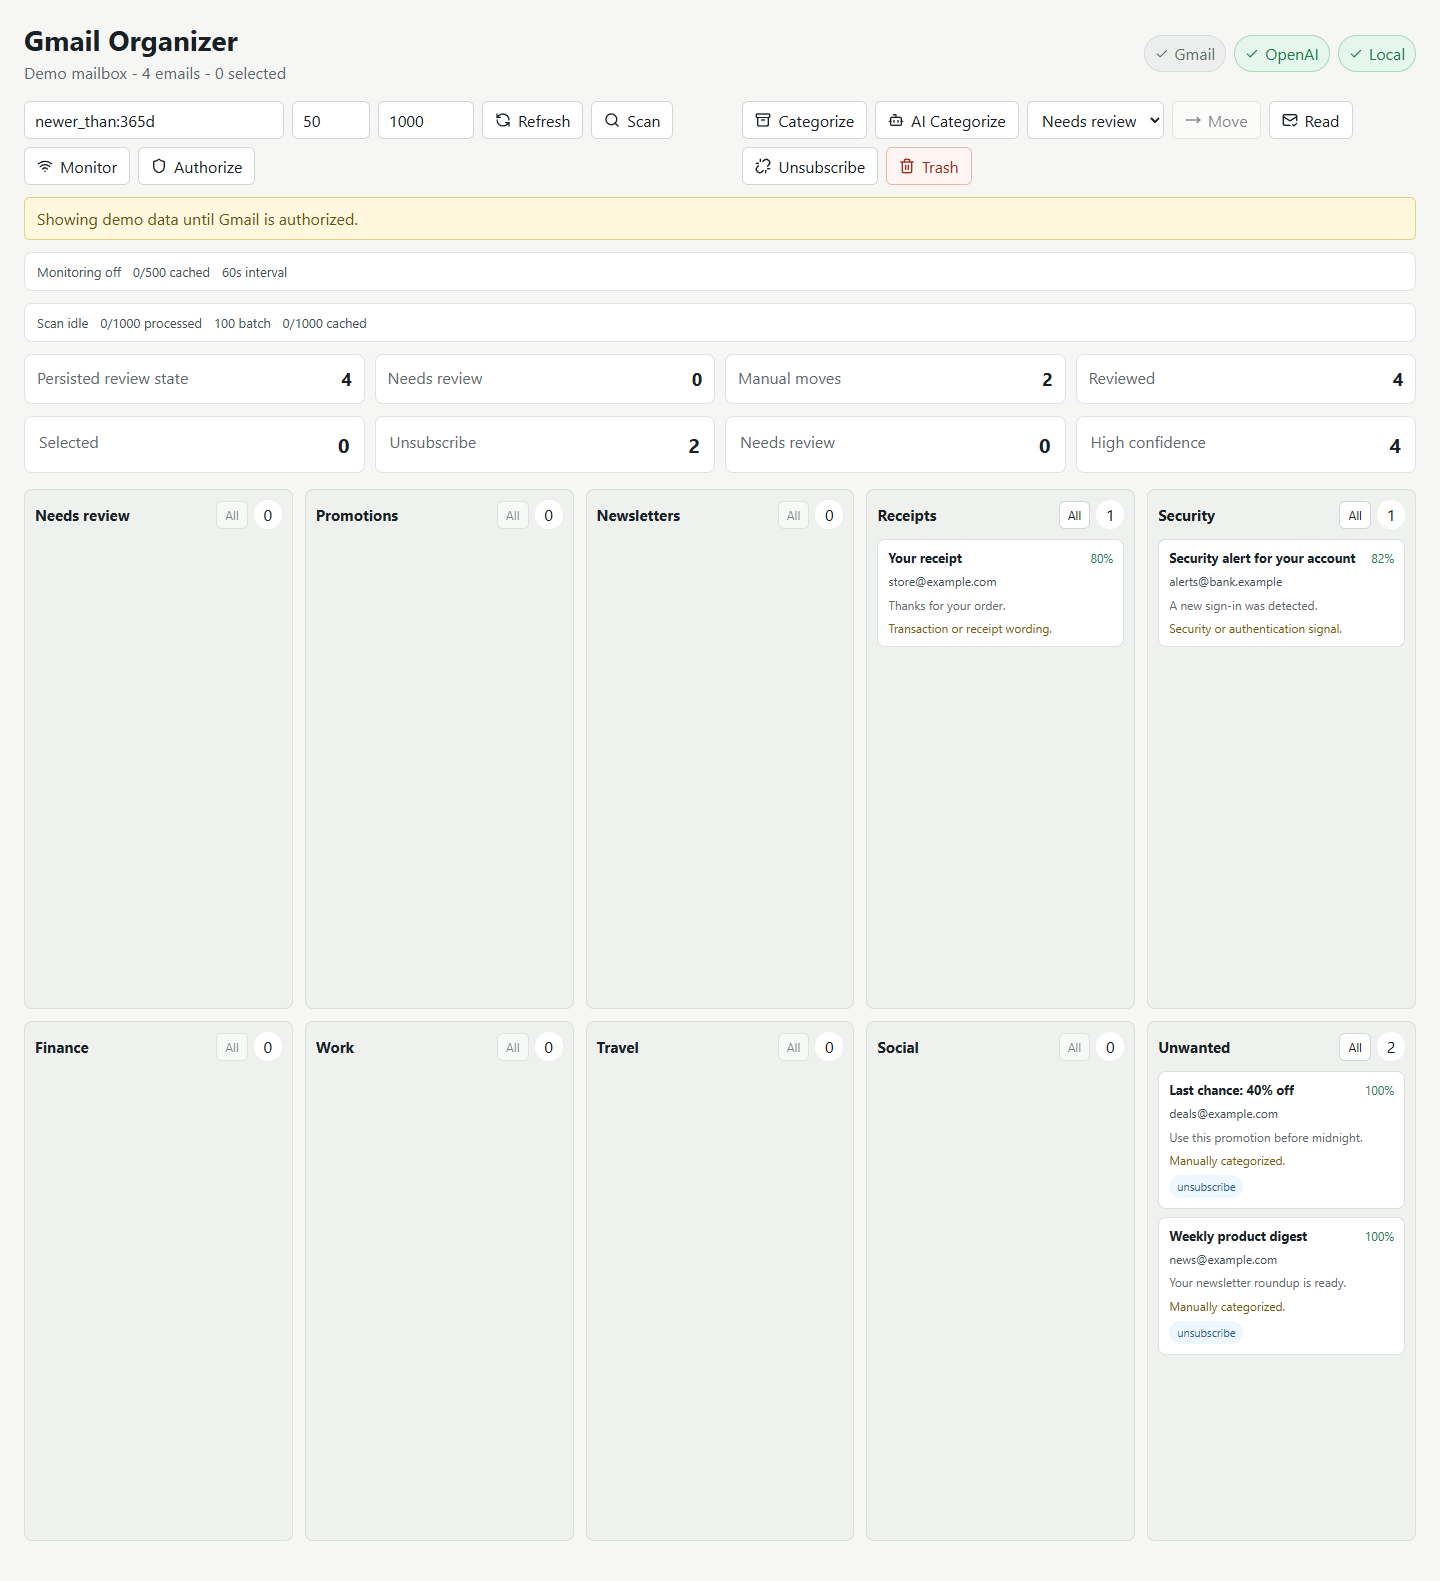
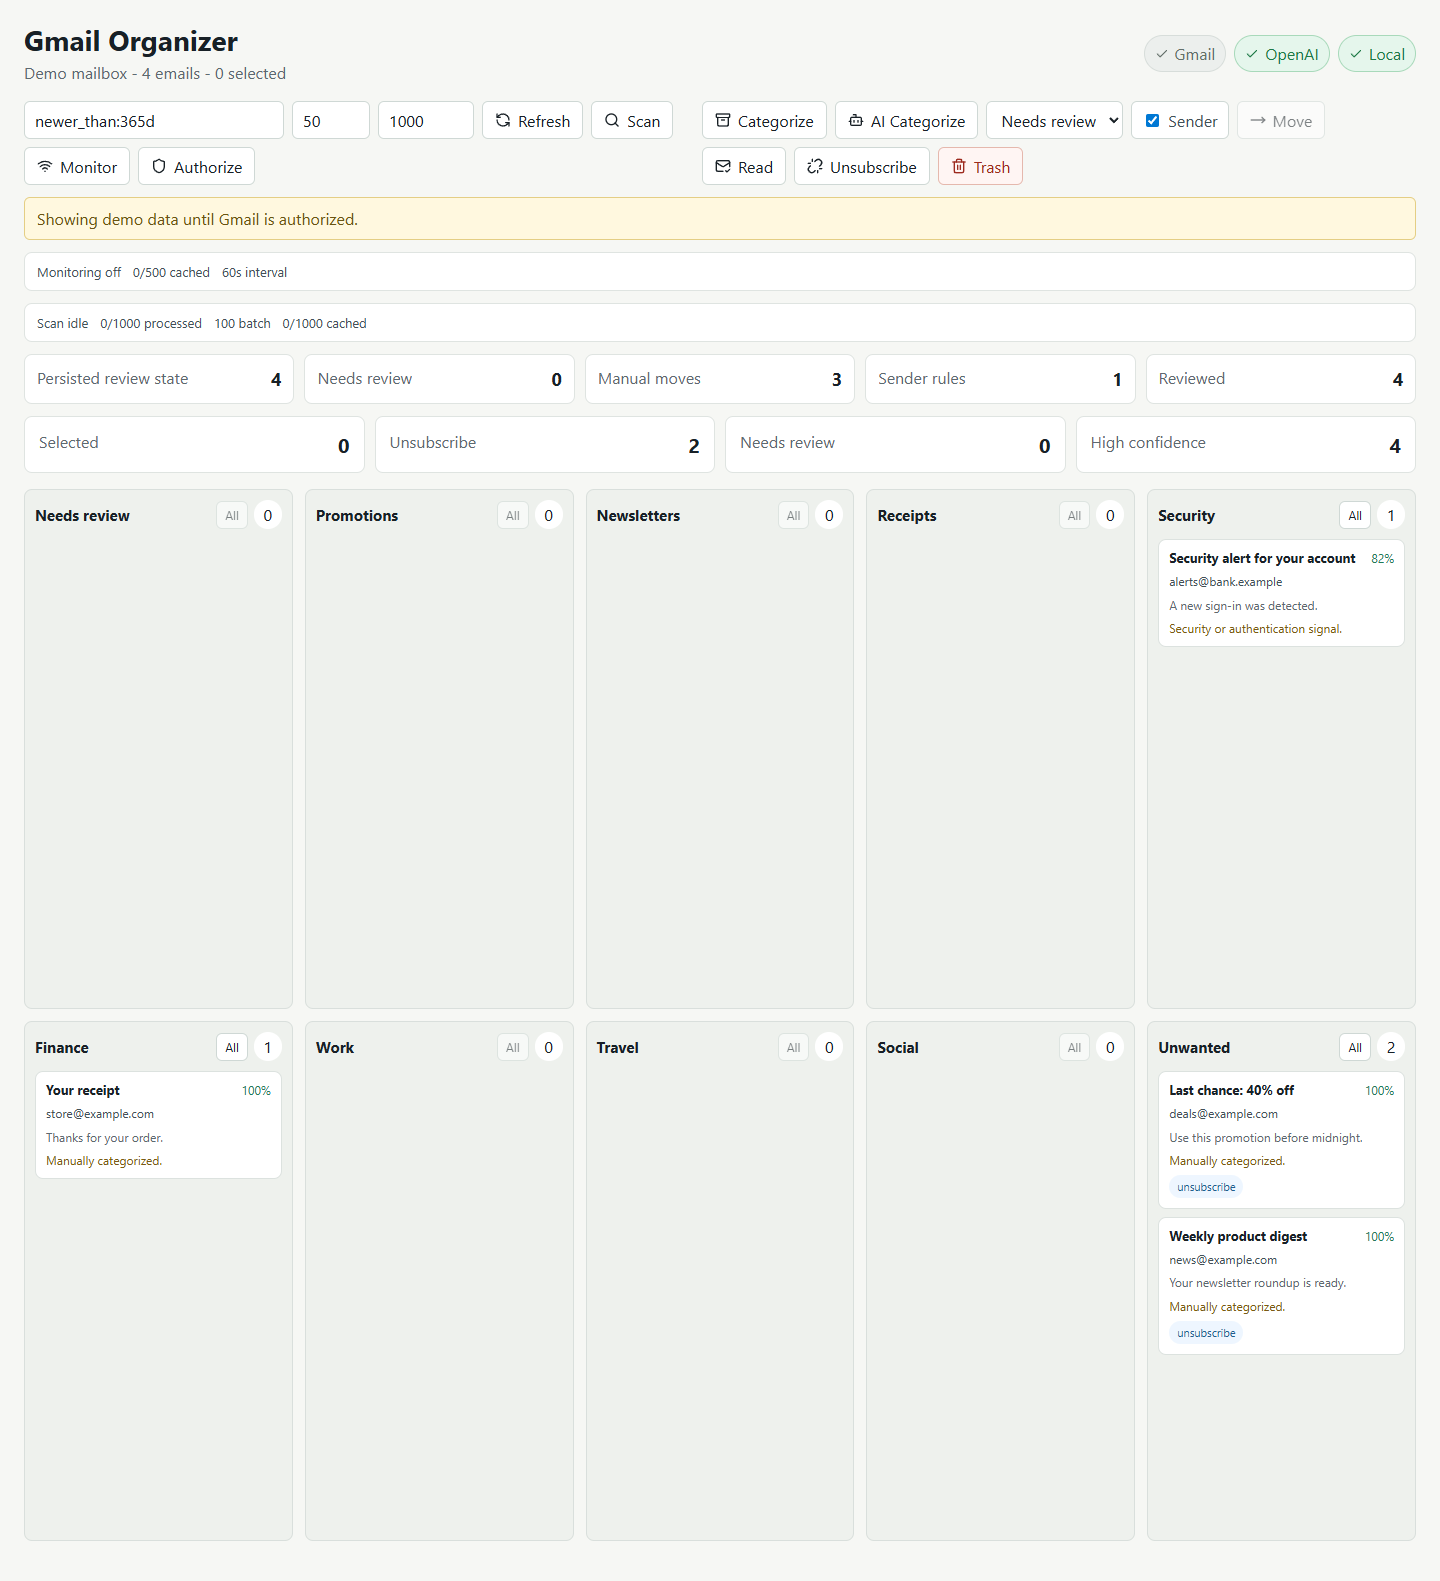
Add sender category rules

diff --git a/web/src/styles.css b/web/src/styles.css
@@ -103,6 +103,23 @@ select {
   width: 96px;
 }
 
+.inline-toggle {
+  align-items: center;
+  background: #ffffff;
+  border: 1px solid #cfd8d5;
+  border-radius: 6px;
+  color: #435057;
+  display: inline-flex;
+  gap: 6px;
+  height: 38px;
+  padding: 0 10px;
+}
+
+.inline-toggle input {
+  height: auto;
+  padding: 0;
+}
+
 button {
   align-items: center;
   background: #ffffff;
@@ -203,7 +220,7 @@ button:disabled {
 .coverage-panel {
   display: grid;
   gap: 10px;
-  grid-template-columns: repeat(4, minmax(0, 1fr));
+  grid-template-columns: repeat(5, minmax(0, 1fr));
   margin-bottom: 12px;
 }
 

diff --git a/web/src/main.tsx b/web/src/main.tsx
@@ -26,6 +26,7 @@ function App() {
   const [max, setMax] = useState(50);
   const [scanLimit, setScanLimit] = useState(1000);
   const [targetCategory, setTargetCategory] = useState<Category>("needs_review");
+  const [applySenderRule, setApplySenderRule] = useState(true);
   const [source, setSource] = useState("demo");
   const [busy, setBusy] = useState(false);
   const [notice, setNotice] = useState("");
@@ -200,11 +201,11 @@ function App() {
     }
     setBusy(true);
     try {
-      const result = await updateCategories(ids, targetCategory);
+      const result = await updateCategories(ids, targetCategory, applySenderRule);
       setEmails(result.emails);
       setSelected(new Set());
       await refreshReviewStats();
-      setNotice(`${ids.length} email(s) moved to ${categoryLabel(targetCategory)}.`);
+      setNotice(`${ids.length} email(s) moved to ${categoryLabel(targetCategory)}.${applySenderRule ? " Sender rule saved." : ""}`);
     } catch (error) {
       setNotice(error instanceof Error ? error.message : "Category update failed.");
     } finally {
@@ -259,6 +260,10 @@ function App() {
           <select value={targetCategory} onChange={(event) => setTargetCategory(event.target.value as Category)} aria-label="Target category">
             {categories.map((category) => <option key={category.id} value={category.id}>{category.label}</option>)}
           </select>
+          <label className="inline-toggle">
+            <input type="checkbox" checked={applySenderRule} onChange={(event) => setApplySenderRule(event.target.checked)} />
+            Sender
+          </label>
           <button onClick={moveSelected} disabled={busy || selected.size === 0}><MoveRight size={16} />Move</button>
           <button onClick={() => bulk("mark_read")} disabled={busy}><MailCheck size={16} />Read</button>
           <button onClick={() => bulk("unsubscribe")} disabled={busy}><Unlink size={16} />Unsubscribe</button>
@@ -302,6 +307,10 @@ function App() {
           <div>
             <span>Manual moves</span>
             <strong>{reviewStats.manual}</strong>
+          </div>
+          <div>
+            <span>Sender rules</span>
+            <strong>{reviewStats.senderRules}</strong>
           </div>
           <div>
             <span>Reviewed</span>

diff --git a/web/src/api.ts b/web/src/api.ts
@@ -29,10 +29,10 @@ export async function classifyEmails(emails: EmailSummary[], useAI: boolean) {
   });
 }
 
-export async function updateCategories(ids: string[], category: string) {
+export async function updateCategories(ids: string[], category: string, applySenderRule: boolean) {
   return request<{ emails: EmailSummary[] }>("/api/categories", {
     method: "POST",
-    body: JSON.stringify({ ids, category })
+    body: JSON.stringify({ ids, category, applySenderRule })
   });
 }
 

diff --git a/web/src/types.ts b/web/src/types.ts
@@ -73,6 +73,7 @@ export type ReviewStats = {
   total: number;
   manual: number;
   needsReview: number;
+  senderRules: number;
   byCategory: Partial<Record<Category, number>>;
   updatedAt?: string;
 };

diff --git a/internal/store/store.go b/internal/store/store.go
@@ -3,8 +3,10 @@ package store
 import (
 	"bufio"
 	"encoding/json"
+	"net/mail"
 	"os"
 	"path/filepath"
+	"strings"
 	"sync"
 	"time"
 
@@ -14,6 +16,7 @@ import (
 type ReviewStore struct {
 	statePath string
 	auditPath string
+	rulesPath string
 	mu        sync.Mutex
 }
 
@@ -36,8 +39,15 @@ type ReviewStats struct {
 	Total       int                     `json:"total"`
 	Manual      int                     `json:"manual"`
 	NeedsReview int                     `json:"needsReview"`
+	SenderRules int                     `json:"senderRules"`
 	ByCategory  map[domain.Category]int `json:"byCategory"`
 	UpdatedAt   *time.Time              `json:"updatedAt,omitempty"`
+}
+
+type SenderRule struct {
+	Sender    string          `json:"sender"`
+	Category  domain.Category `json:"category"`
+	UpdatedAt time.Time       `json:"updatedAt"`
 }
 
 func NewReviewStore(dataDir string) (*ReviewStore, error) {
@@ -47,6 +57,7 @@ func NewReviewStore(dataDir string) (*ReviewStore, error) {
 	return &ReviewStore{
 		statePath: filepath.Join(dataDir, "review_state.json"),
 		auditPath: filepath.Join(dataDir, "action_audit.jsonl"),
+		rulesPath: filepath.Join(dataDir, "sender_rules.json"),
 	}, nil
 }
 
@@ -61,6 +72,24 @@ func (s *ReviewStore) Apply(emails []domain.EmailSummary) []domain.EmailSummary 
 			email.Category = saved.Category
 			email.Confidence = saved.Confidence
 			email.Reason = saved.Reason
+		}
+		out = append(out, email)
+	}
+	return out
+}
+
+func (s *ReviewStore) ApplySenderRules(emails []domain.EmailSummary) []domain.EmailSummary {
+	rules, err := s.loadRules()
+	if err != nil || len(rules) == 0 {
+		return emails
+	}
+	out := make([]domain.EmailSummary, 0, len(emails))
+	for _, email := range emails {
+		sender := normalizeSender(email.From)
+		if rule, ok := rules[sender]; ok {
+			email.Category = rule.Category
+			email.Confidence = 1
+			email.Reason = "Sender rule."
 		}
 		out = append(out, email)
 	}
@@ -94,6 +123,32 @@ func (s *ReviewStore) SaveClassifications(emails []domain.EmailSummary) error {
 	return os.WriteFile(s.statePath, raw, 0o600)
 }
 
+func (s *ReviewStore) SaveSenderRules(emails []domain.EmailSummary, category domain.Category) error {
+	s.mu.Lock()
+	defer s.mu.Unlock()
+	rules, err := s.loadRulesLocked()
+	if err != nil {
+		rules = map[string]SenderRule{}
+	}
+	now := time.Now().UTC()
+	for _, email := range emails {
+		sender := normalizeSender(email.From)
+		if sender == "" {
+			continue
+		}
+		rules[sender] = SenderRule{
+			Sender:    sender,
+			Category:  category,
+			UpdatedAt: now,
+		}
+	}
+	raw, err := json.MarshalIndent(rules, "", "  ")
+	if err != nil {
+		return err
+	}
+	return os.WriteFile(s.rulesPath, raw, 0o600)
+}
+
 func (s *ReviewStore) RecordAction(action domain.BulkAction, ids []string, results []domain.ActionResult) error {
 	s.mu.Lock()
 	defer s.mu.Unlock()
@@ -115,13 +170,20 @@ func (s *ReviewStore) Stats() (ReviewStats, error) {
 	state, err := s.loadState()
 	if err != nil {
 		if os.IsNotExist(err) {
-			return ReviewStats{ByCategory: map[domain.Category]int{}}, nil
+			stats := ReviewStats{ByCategory: map[domain.Category]int{}}
+			if rules, rulesErr := s.loadRules(); rulesErr == nil {
+				stats.SenderRules = len(rules)
+			}
+			return stats, nil
 		}
 		return ReviewStats{}, err
 	}
 	stats := ReviewStats{
 		Total:      len(state),
 		ByCategory: map[domain.Category]int{},
+	}
+	if rules, err := s.loadRules(); err == nil {
+		stats.SenderRules = len(rules)
 	}
 	var latest time.Time
 	for _, item := range state {
@@ -189,4 +251,34 @@ func (s *ReviewStore) loadStateLocked() (map[string]StoredClassification, error)
 		return nil, err
 	}
 	return state, nil
+}
+
+func (s *ReviewStore) loadRules() (map[string]SenderRule, error) {
+	s.mu.Lock()
+	defer s.mu.Unlock()
+	return s.loadRulesLocked()
+}
+
+func (s *ReviewStore) loadRulesLocked() (map[string]SenderRule, error) {
+	raw, err := os.ReadFile(s.rulesPath)
+	if err != nil {
+		return nil, err
+	}
+	var rules map[string]SenderRule
+	if err := json.Unmarshal(raw, &rules); err != nil {
+		return nil, err
+	}
+	return rules, nil
+}
+
+func normalizeSender(value string) string {
+	value = strings.TrimSpace(value)
+	if value == "" {
+		return ""
+	}
+	if parsed, err := mail.ParseAddress(value); err == nil {
+		return strings.ToLower(strings.TrimSpace(parsed.Address))
+	}
+	value = strings.Trim(value, "<>")
+	return strings.ToLower(strings.TrimSpace(value))
 }

diff --git a/internal/store/store_test.go b/internal/store/store_test.go
@@ -70,3 +70,31 @@ func TestReviewStoreStats(t *testing.T) {
 		t.Fatal("expected updated timestamp")
 	}
 }
+
+func TestReviewStoreAppliesSenderRules(t *testing.T) {
+	store, err := NewReviewStore(t.TempDir())
+	if err != nil {
+		t.Fatalf("new store: %v", err)
+	}
+	if err := store.SaveSenderRules([]domain.EmailSummary{{From: "Deals <[email redacted]>"}}, domain.CategoryUnwanted); err != nil {
+		t.Fatalf("save rule: %v", err)
+	}
+	applied := store.ApplySenderRules([]domain.EmailSummary{{
+		ID:       "email-1",
+		From:     "[email redacted]",
+		Category: domain.CategoryPromotions,
+	}})
+	if got := applied[0].Category; got != domain.CategoryUnwanted {
+		t.Fatalf("expected unwanted, got %s", got)
+	}
+	if applied[0].Reason != "Sender rule." || applied[0].Confidence != 1 {
+		t.Fatalf("expected sender rule confidence/reason, got %#v", applied[0])
+	}
+	stats, err := store.Stats()
+	if err != nil {
+		t.Fatalf("stats: %v", err)
+	}
+	if stats.SenderRules != 1 {
+		t.Fatalf("expected one sender rule, got %d", stats.SenderRules)
+	}
+}

diff --git a/internal/app/server.go b/internal/app/server.go
@@ -144,8 +144,9 @@ func (s *Server) handleClassify(w http.ResponseWriter, r *http.Request) {
 
 func (s *Server) handleCategoryUpdate(w http.ResponseWriter, r *http.Request) {
 	var payload struct {
-		IDs      []string        `json:"ids"`
-		Category domain.Category `json:"category"`
+		IDs             []string        `json:"ids"`
+		Category        domain.Category `json:"category"`
+		ApplySenderRule bool            `json:"applySenderRule"`
 	}
 	if err := json.NewDecoder(http.MaxBytesReader(w, r.Body, 1<<20)).Decode(&payload); err != nil {
 		writeError(w, http.StatusBadRequest, "invalid request body")
@@ -167,6 +168,12 @@ func (s *Server) handleCategoryUpdate(w http.ResponseWriter, r *http.Request) {
 	if err := s.store.SaveClassifications(emails); err != nil {
 		writeError(w, http.StatusInternalServerError, err.Error())
 		return
+	}
+	if payload.ApplySenderRule {
+		if err := s.store.SaveSenderRules(emails, payload.Category); err != nil {
+			writeError(w, http.StatusInternalServerError, err.Error())
+			return
+		}
 	}
 	writeJSON(w, http.StatusOK, map[string]any{"emails": s.snapshot()})
 }
@@ -270,6 +277,7 @@ func (s *Server) fetchAndClassify(ctx context.Context, query string, max int64, 
 		source = "demo"
 	}
 	classified := s.applyClassifications(ctx, emails, preferAI)
+	classified = s.store.ApplySenderRules(classified)
 	classified = s.store.Apply(classified)
 	s.remember(classified)
 	return classified, source, nil
@@ -287,6 +295,7 @@ func (s *Server) fetchPageAndClassify(ctx context.Context, query string, pageTok
 		source = "demo"
 	}
 	classified := s.applyClassifications(ctx, emails, preferAI)
+	classified = s.store.ApplySenderRules(classified)
 	classified = s.store.Apply(classified)
 	s.remember(classified)
 	return classified, nextToken, source, nil

diff --git a/docs/DECISIONS.md b/docs/DECISIONS.md
@@ -22,6 +22,10 @@ Bulk delete initially maps to Gmail trash. Permanent deletion is intentionally d
 
 Manual category moves persist through the same local review state as classifier output. A manual move uses confidence `1.0` and a clear reason so user corrections override later low-confidence classifier output when the email is loaded again.
 
+## Sender Rules
+
+Manual category moves can save a sender rule. Sender rules are local-only, apply after heuristic or AI classification, and run before per-message review-state overrides. This lets monitoring and scan jobs auto-categorize future emails from a known sender while preserving explicit corrections for individual messages.
+
 ## Coverage Metrics
 
 Review coverage is calculated from the local classification state, not from Gmail message bodies. This gives the dashboard a stable count of persisted categorization progress across paged scans, manual moves, and future monitoring runs while keeping memory and data exposure bounded.

diff --git a/README.md b/README.md
@@ -17,6 +17,7 @@ This is the initial working slice. It includes:
 - Heuristic categorization and optional OpenAI Responses API categorization.
 - Dashboard lanes by category.
 - Manual category correction for selected emails.
+- Sender rules from manual category corrections for future monitoring/scanning.
 - Persisted review coverage metrics across scans and manual moves.
 - Bulk trash, mark-read, and unsubscribe-preparation actions.
 - One-click unsubscribe execution for Gmail messages that advertise `List-Unsubscribe-Post: List-Unsubscribe=One-Click`.
@@ -72,6 +73,7 @@ $env:GMAIL_ORGANIZER_SCAN_CACHE_LIMIT="1000"
 - Background monitoring keeps a bounded in-memory cache and uses metadata/snippets rather than full message bodies.
 - Mailbox scans fetch Gmail metadata in pages, persist classifications after each batch, and keep only a bounded recent cache in memory.
 - Review coverage stats are derived from local classification state and do not require reloading message bodies.
+- Sender rules are stored locally and apply to future emails after classifier output but before per-message overrides.
 
 ## Verification
 

diff --git a/docs/CONTEXT.md b/docs/CONTEXT.md
@@ -11,6 +11,7 @@ Build a secure, memory-efficient Gmail AI organizer that categorizes emails, mon
 - Dashboard: category lanes, query/max controls, manual refresh, scan, monitoring toggle, AI categorize, manual category moves, bulk read, unsubscribe preparation, and trash.
 - Persisted review state and JSONL action audit live under ignored `data/`.
 - Review coverage stats are available at `/api/review` and shown in the dashboard.
+- Manual moves can save local sender rules that auto-categorize future messages from the same sender.
 - Backend monitor service polls on a bounded interval, keeps a bounded cache, classifies results, and exposes `/api/monitor`.
 - Unsubscribe action executes only one-click HTTPS unsubscribe headers; other targets are surfaced as review links in the dashboard.
 - Backend scan service pages through Gmail metadata, classifies and persists each batch, and exposes `/api/scan`.